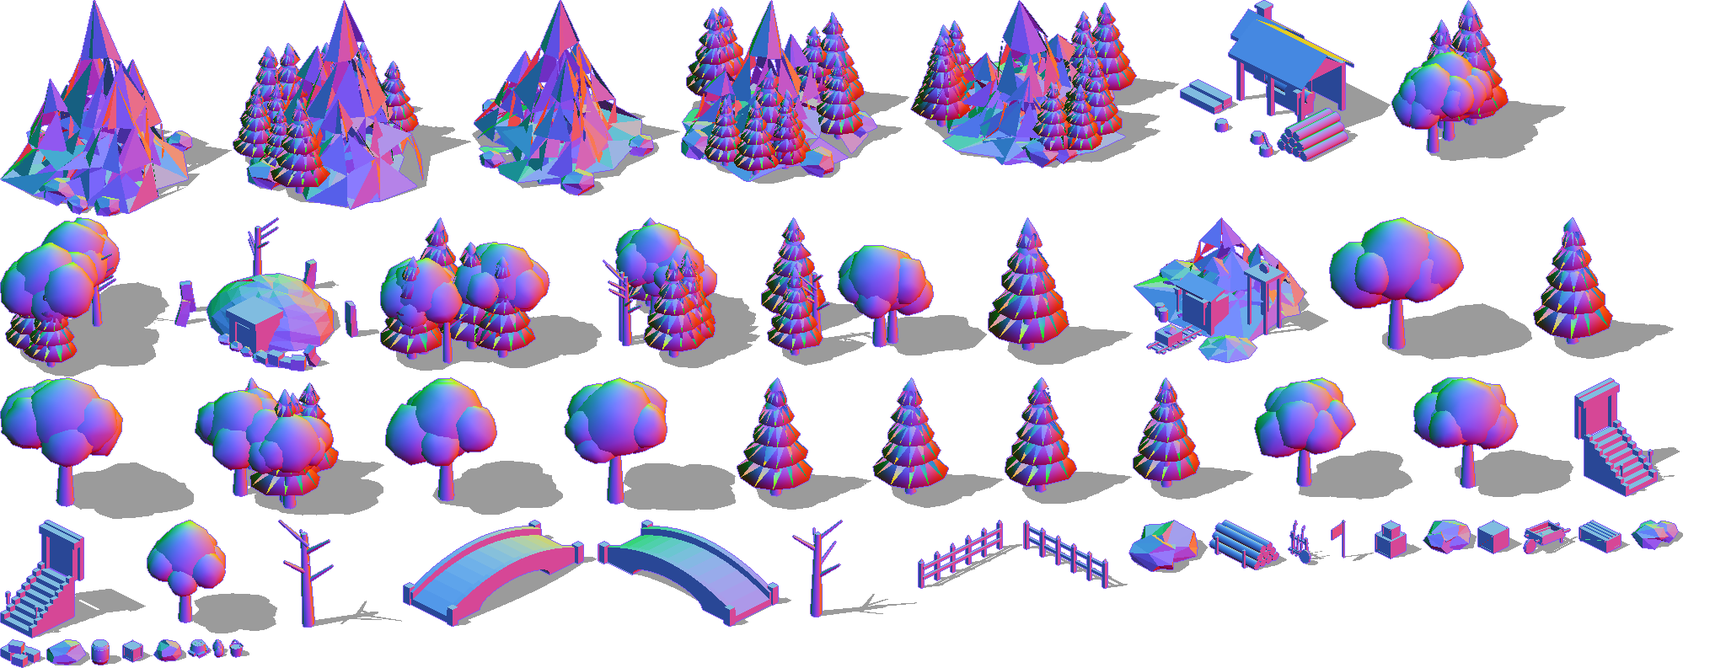
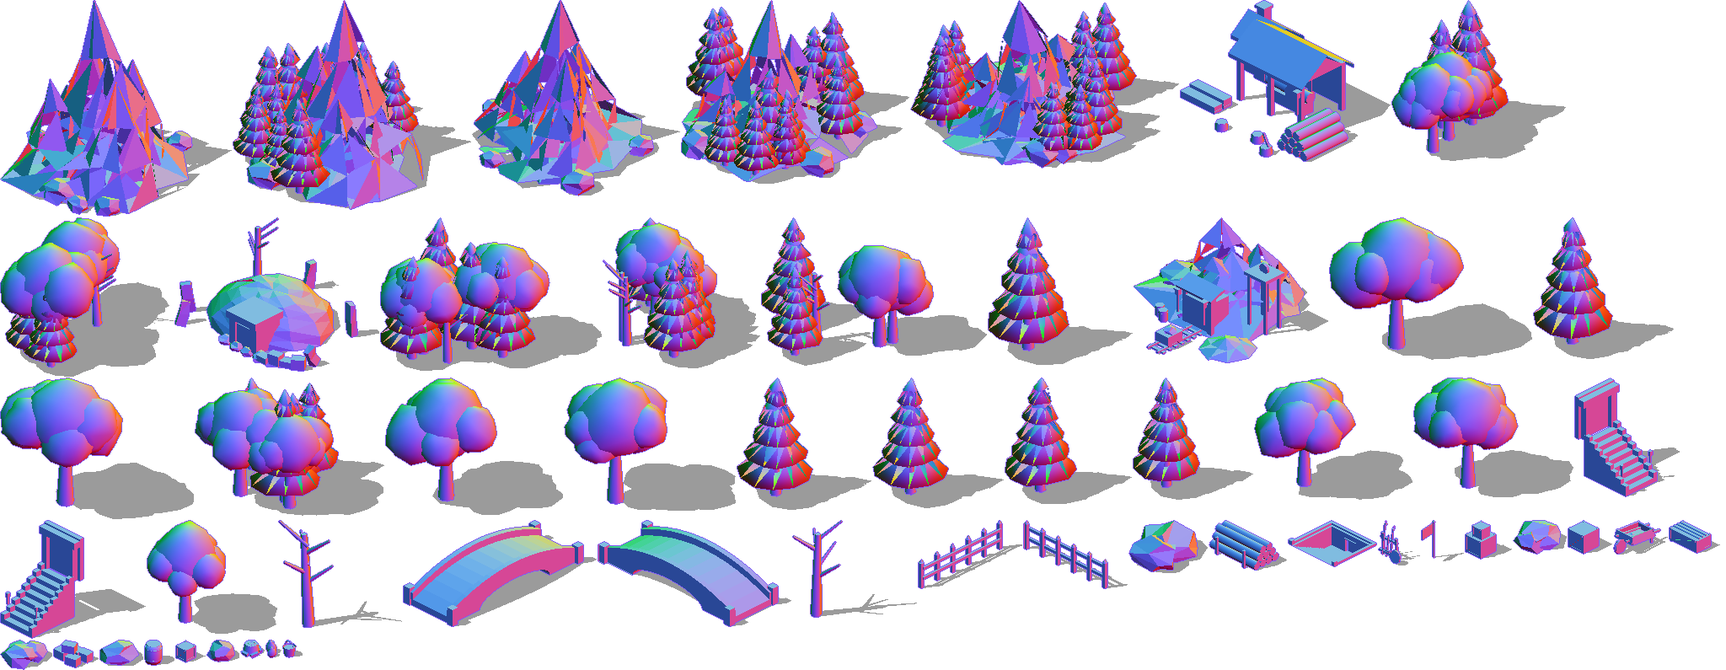
Stairs down: a stone stairwell in the descent room, not a marker on one tile
Every floor's way down was a small violet portal voxel (26x31 px) on the
descent room's middle tile; the minimap icon was the easier thing to
find. Now it is a stairwell 6 tiles by 6 cut into the floor: a flight
going down (each tread darker) to a landing and an arch lit violet, a
kerb on three sides, a brazier either side of the top step. Before and
after, same seeds and camera: docs/stairs-down-before-after.png.

Sim (world.js): the stairwell's 36 tiles are props, so nothing walks
over the hole; 'stairs' is its top step (world.stairsAt), the rest
'stairwell', and any of them takes you down from the rim. It sits as
near the room's middle as fits (an L-shaped room's middle can be its
notch), with a clear, pool-free row in front; placed on 48/48 floors
(12 seeds x 4 floors), else the old single tile. The compass's stairs
row paths to the nearest rim tile, and a tap in the middle walks to the
top step: reachable from the arrival on 48/48 (a hazard across the
front had cut off 9 before the rim rule). The 7 difficulty gates print
the same numbers as before.

Bake (envlab.js, buildkit.js): `below` keeps geometry under the ground;
a depth-only floor around the opening (userData.mask) hides what the
ground would, so the bake sees in only through the mouth. `glowId`
gives a sprite's glow its colour (violet, 2). It's shallow on purpose:
the 30 degree camera sees ~1.2x a stairwell's depth in from its mouth.
Rebaked env atlases: the other 53 sprites are pixel-identical, the town
[…]

diff --git a/src/sim/envfoot.js b/src/sim/envfoot.js
@@ -1,4 +1,4 @@
 // envfoot.js — GENERATED by tools/actor-lab/bake-env.cjs. Do not edit.
 // Ground footprint of each baked environment sprite, in tiles relative to its
 // origin: [x0, y0, x1, y1]. Used for collision and placement.
-export const ENV_FOOT = {"pine_1":[-4.13,-4.18,4.39,4.34],"pine_2":[-4.81,-4.8,5.12,5],"pine_3":[-4.98,-5.01,5,4.96],"pine_4":[-5.13,-5.38,5.48,5.19],"pine_5":[-4.8,-4.87,4.86,4.58],"pine_6":[-4.76,-4.68,4.81,4.84],"oak_1":[-6.76,-5.9,5.88,5.84],"oak_2":[-5.8,-4.63,4.64,4.88],"oak_3":[-5.69,-5.27,5.8,5.97],"oak_4":[-6.23,-6.82,5.95,6.39],"autumn_1":[-6.59,-6.17,5.5,4.97],"autumn_2":[-4.61,-5.31,5.15,5.55],"autumn_3":[-4.46,-4.55,4.68,4.38],"dead_1":[-2.24,-2.81,2.66,2.62],"dead_2":[-2.56,-1.87,2.98,3.05],"grove_1":[-7.68,-11.37,3.67,5.35],"grove_2":[-9.37,-7.23,8.7,9.95],"grove_3":[-8,-5.74,9.25,8.11],"grove_4":[-8.72,-9.33,7.98,8.18],"grove_5":[-7.14,-9.42,6.44,8.99],"grove_6":[-8.02,-9.64,7.46,6.95],"bridge_0":[-3.6,-9.7,3.6,9.7],"bridge_90":[-9.7,-3.6,9.7,3.6],"rock_A":[-2.18,-2.03,2.19,2.41],"rock_B":[-2.03,-2.12,2.06,1.97],"rock_C":[-3.06,-3.35,3.32,3.55],"rock_D":[-2.7,-3.56,2.22,2.22],"rock_E":[-3.72,-3.84,4.19,6.22],"mountain_A_grass_trees":[-12.58,-12.79,11.34,10.47],"mountain_B_grass_trees":[-12.7,-13.02,12.8,11.86],"mountain_C_grass_trees":[-14.56,-13.66,14.26,14.25],"mountain_A":[-11.3,-11.74,11.05,10.38],"mountain_B":[-12.23,-11.71,11.72,13.45],"ruin":[-9.37,-9.66,9.14,6.89],"mine_0":[-11.55,-10.95,8.49,11.1],"lumbermill_90":[-10.3,-7.1,9.4,8.9],"barrel":[-0.89,-0.94,0.89,0.94],"crate_A_big":[-1.12,-1.12,1.12,1.19],"crate_A_small":[-0.72,-0.72,0.72,0.79],"crate_B_big":[-1.12,-1.12,1.12,1.19],"crate_long_A":[-2.02,-1.02,2.02,1.09],"sack":[-0.62,-0.49,1.25,1.36],"wheelbarrow":[-1.32,-2.69,1.32,3.23],"weaponrack":[-1.2,-0.19,2.1,0.81],"bucket_water":[-0.65,-0.65,0.65,0.65],"resource_lumber":[-3.33,-1.78,3.33,2.15],"resource_stone":[-1.7,-1.97,1.75,0.83],"flag_red":[-0.16,-0.12,0.16,1.84],"stump":[-1.06,-1.15,1.12,1.1],"fence_0":[-0.25,-6.05,0.3,6.05],"fence_90":[-6.05,-0.3,6.05,0.25],"stairsup_0":[-2.6,-4.15,2.6,3.1],"stairsup_90":[-4.15,-2.6,3.1,2.6],"vale_tavern_1":[-6.3,-8.45,6.72,7.25],"vale_inn_1":[-7.1,-4.4,10.48,5.1],"vale_shop_1":[-4.2,-5.72,5.07,4.2],"vale_temple_1":[-6.95,-4.5,7.84,6.7],"vale_well_1":[-2.1,-1.8,2.1,1.8],"vale_house_1":[-4.7,-4,4.7,4],"vale_house_2":[-4.7,-4,4.7,4],"vale_house_3":[-4.7,-4,4.7,4],"vale_housex_1":[-4,-4.7,4,4.7],"vale_housex_2":[-4,-4.7,4,4.7],"vale_farm_1":[-9.63,-5.7,9.77,7.63],"vale_farmx_1":[-5.7,-9.77,7.63,9.63],"vale_keep_1":[-6.37,-6.45,6.37,6.45],"vale_wall_1":[-11,-1.7,11,2.1],"vale_wally_1":[-1.7,-11,2.1,11],"vale_smith_1":[-5.2,-4.3,5.36,4.8],"fens_tavern_1":[-6.3,-8.45,6.72,7.25],"fens_inn_1":[-7.1,-4.4,10.48,5.1],"fens_shop_1":[-4.2,-5.72,5.07,4.2],"fens_temple_1":[-6.95,-4.5,7.84,6.7],"fens_well_1":[-2.1,-1.8,2.1,1.8],"fens_house_1":[-4.7,-4,4.7,4],"fens_house_2":[-4.7,-4,4.7,4],"fens_house_3":[-4.7,-4,4.7,4],"fens_housex_1":[-4,-4.7,4,4.7],"fens_housex_2":[-4,-4.7,4,4.7],"fens_farm_1":[-9.63,-5.7,9.77,7.63],"fens_farmx_1":[-5.7,-9.77,7.63,9.63],"fens_keep_1":[-6.37,-6.45,6.37,6.45],"fens_wall_1":[-11,-1.7,11,2.1],"fens_wally_1":[-1.7,-11,2.1,11],"fens_smith_1":[-5.2,-4.3,5.36,4.8],"reach_tavern_1":[-6.3,-8.45,6.72,7.25],"reach_inn_1":[-7.1,-4.4,10.48,5.1],"reach_shop_1":[-4.2,-5.72,5.07,4.2],"reach_temple_1":[-6.95,-4.5,7.84,6.7],"reach_well_1":[-2.1,-1.8,2.1,1.8],"reach_house_1":[-4.7,-4,4.7,4],"reach_house_2":[-4.7,-4,4.7,4],"reach_house_3":[-4.7,-4,4.7,4],"reach_housex_1":[-4,-4.7,4,4.7],"reach_housex_2":[-4,-4.7,4,4.7],"reach_farm_1":[-9.63,-5.7,9.77,7.63],"reach_farmx_1":[-5.7,-9.77,7.63,9.63],"reach_keep_1":[-6.37,-6.45,6.37,6.45],"reach_wall_1":[-11,-1.7,11,2.1],"reach_wally_1":[-1.7,-11,2.1,11],"reach_smith_1":[-5.2,-4.3,5.36,4.8],"heights_tavern_1":[-6.3,-8.45,6.72,7.25],"heights_inn_1":[-7.1,-4.4,10.48,5.1],"heights_shop_1":[-4.2,-5.72,5.07,4.2],"heights_temple_1":[-6.95,-4.5,7.84,6.7],"heights_well_1":[-2.1,-1.8,2.1,1.8],"heights_house_1":[-4.7,-4,4.7,4],"heights_house_2":[-4.7,-4,4.7,4],"heights_house_3":[-4.7,-4,4.7,4],"heights_housex_1":[-4,-4.7,4,4.7],"heights_housex_2":[-4,-4.7,4,4.7],"heights_farm_1":[-9.63,-5.7,9.77,7.63],"heights_farmx_1":[-5.7,-9.77,7.63,9.63],"heights_keep_1":[-6.37,-6.45,6.37,6.45],"heights_wall_1":[-11,-1.7,11,2.1],"heights_wally_1":[-1.7,-11,2.1,11],"heights_smith_1":[-5.2,-4.3,5.36,4.8]};
+export const ENV_FOOT = {"pine_1":[-4.13,-4.18,4.39,4.34],"pine_2":[-4.81,-4.8,5.12,5],"pine_3":[-4.98,-5.01,5,4.96],"pine_4":[-5.13,-5.38,5.48,5.19],"pine_5":[-4.8,-4.87,4.86,4.58],"pine_6":[-4.76,-4.68,4.81,4.84],"oak_1":[-6.76,-5.9,5.88,5.84],"oak_2":[-5.8,-4.63,4.64,4.88],"oak_3":[-5.69,-5.27,5.8,5.97],"oak_4":[-6.23,-6.82,5.95,6.39],"autumn_1":[-6.59,-6.17,5.5,4.97],"autumn_2":[-4.61,-5.31,5.15,5.55],"autumn_3":[-4.46,-4.55,4.68,4.38],"dead_1":[-2.24,-2.81,2.66,2.62],"dead_2":[-2.56,-1.87,2.98,3.05],"grove_1":[-7.68,-11.37,3.67,5.35],"grove_2":[-9.37,-7.23,8.7,9.95],"grove_3":[-8,-5.74,9.25,8.11],"grove_4":[-8.72,-9.33,7.98,8.18],"grove_5":[-7.14,-9.42,6.44,8.99],"grove_6":[-8.02,-9.64,7.46,6.95],"bridge_0":[-3.6,-9.7,3.6,9.7],"bridge_90":[-9.7,-3.6,9.7,3.6],"rock_A":[-2.18,-2.03,2.19,2.41],"rock_B":[-2.03,-2.12,2.06,1.97],"rock_C":[-3.06,-3.35,3.32,3.55],"rock_D":[-2.7,-3.56,2.22,2.22],"rock_E":[-3.72,-3.84,4.19,6.22],"mountain_A_grass_trees":[-12.58,-12.79,11.34,10.47],"mountain_B_grass_trees":[-12.7,-13.02,12.8,11.86],"mountain_C_grass_trees":[-14.56,-13.66,14.26,14.25],"mountain_A":[-11.3,-11.74,11.05,10.38],"mountain_B":[-12.23,-11.71,11.72,13.45],"ruin":[-9.37,-9.66,9.14,6.89],"mine_0":[-11.55,-10.95,8.49,11.1],"lumbermill_90":[-10.3,-7.1,9.4,8.9],"barrel":[-0.89,-0.94,0.89,0.94],"crate_A_big":[-1.12,-1.12,1.12,1.19],"crate_A_small":[-0.72,-0.72,0.72,0.79],"crate_B_big":[-1.12,-1.12,1.12,1.19],"crate_long_A":[-2.02,-1.02,2.02,1.09],"sack":[-0.62,-0.49,1.25,1.36],"wheelbarrow":[-1.32,-2.69,1.32,3.23],"weaponrack":[-1.2,-0.19,2.1,0.81],"bucket_water":[-0.65,-0.65,0.65,0.65],"resource_lumber":[-3.33,-1.78,3.33,2.15],"resource_stone":[-1.7,-1.97,1.75,0.83],"flag_red":[-0.16,-0.12,0.16,1.84],"stump":[-1.06,-1.15,1.12,1.1],"fence_0":[-0.25,-6.05,0.3,6.05],"fence_90":[-6.05,-0.3,6.05,0.25],"stairsup_0":[-2.6,-4.15,2.6,3.1],"stairsup_90":[-4.15,-2.6,3.1,2.6],"stairsdown_0":[-3.38,-3.8,3.38,3.01],"vale_tavern_1":[-6.3,-8.45,6.72,7.25],"vale_inn_1":[-7.1,-4.4,10.48,5.1],"vale_shop_1":[-4.2,-5.72,5.07,4.2],"vale_temple_1":[-6.95,-4.5,7.84,6.7],"vale_well_1":[-2.1,-1.8,2.1,1.8],"vale_house_1":[-4.7,-4,4.7,4],"vale_house_2":[-4.7,-4,4.7,4],"vale_house_3":[-4.7,-4,4.7,4],"vale_housex_1":[-4,-4.7,4,4.7],"vale_housex_2":[-4,-4.7,4,4.7],"vale_farm_1":[-9.63,-5.7,9.77,7.63],"vale_farmx_1":[-5.7,-9.77,7.63,9.63],"vale_keep_1":[-6.37,-6.45,6.37,6.45],"vale_wall_1":[-11,-1.7,11,2.1],"vale_wally_1":[-1.7,-11,2.1,11],"vale_smith_1":[-5.2,-4.3,5.36,4.8],"fens_tavern_1":[-6.3,-8.45,6.72,7.25],"fens_inn_1":[-7.1,-4.4,10.48,5.1],"fens_shop_1":[-4.2,-5.72,5.07,4.2],"fens_temple_1":[-6.95,-4.5,7.84,6.7],"fens_well_1":[-2.1,-1.8,2.1,1.8],"fens_house_1":[-4.7,-4,4.7,4],"fens_house_2":[-4.7,-4,4.7,4],"fens_house_3":[-4.7,-4,4.7,4],"fens_housex_1":[-4,-4.7,4,4.7],"fens_housex_2":[-4,-4.7,4,4.7],"fens_farm_1":[-9.63,-5.7,9.77,7.63],"fens_farmx_1":[-5.7,-9.77,7.63,9.63],"fens_keep_1":[-6.37,-6.45,6.37,6.45],"fens_wall_1":[-11,-1.7,11,2.1],"fens_wally_1":[-1.7,-11,2.1,11],"fens_smith_1":[-5.2,-4.3,5.36,4.8],"reach_tavern_1":[-6.3,-8.45,6.72,7.25],"reach_inn_1":[-7.1,-4.4,10.48,5.1],"reach_shop_1":[-4.2,-5.72,5.07,4.2],"reach_temple_1":[-6.95,-4.5,7.84,6.7],"reach_well_1":[-2.1,-1.8,2.1,1.8],"reach_house_1":[-4.7,-4,4.7,4],"reach_house_2":[-4.7,-4,4.7,4],"reach_house_3":[-4.7,-4,4.7,4],"reach_housex_1":[-4,-4.7,4,4.7],"reach_housex_2":[-4,-4.7,4,4.7],"reach_farm_1":[-9.63,-5.7,9.77,7.63],"reach_farmx_1":[-5.7,-9.77,7.63,9.63],"reach_keep_1":[-6.37,-6.45,6.37,6.45],"reach_wall_1":[-11,-1.7,11,2.1],"reach_wally_1":[-1.7,-11,2.1,11],"reach_smith_1":[-5.2,-4.3,5.36,4.8],"heights_tavern_1":[-6.3,-8.45,6.72,7.25],"heights_inn_1":[-7.1,-4.4,10.48,5.1],"heights_shop_1":[-4.2,-5.72,5.07,4.2],"heights_temple_1":[-6.95,-4.5,7.84,6.7],"heights_well_1":[-2.1,-1.8,2.1,1.8],"heights_house_1":[-4.7,-4,4.7,4],"heights_house_2":[-4.7,-4,4.7,4],"heights_house_3":[-4.7,-4,4.7,4],"heights_housex_1":[-4,-4.7,4,4.7],"heights_housex_2":[-4,-4.7,4,4.7],"heights_farm_1":[-9.63,-5.7,9.77,7.63],"heights_farmx_1":[-5.7,-9.77,7.63,9.63],"heights_keep_1":[-6.37,-6.45,6.37,6.45],"heights_wall_1":[-11,-1.7,11,2.1],"heights_wally_1":[-1.7,-11,2.1,11],"heights_smith_1":[-5.2,-4.3,5.36,4.8]};

diff --git a/tools/actor-lab/envlab.js b/tools/actor-lab/envlab.js
@@ -24,9 +24,12 @@ window.measure = async (names) => {
 // DEPTH KEY = distance toward the camera in tile units: ground x+y plus 0.816 × height
 // (the 30° camera: a point one tile-unit higher sits 0.816 tiles nearer). The renderer
 // composes structures and actors with a "nearer wins" test on this key.
+// (uFloor: the lowest height baked, in model units — just under the ground, or a stairwell's
+// bottom for a bake with o.below)
 const keyMat = new THREE.ShaderMaterial({
+  uniforms: { uFloor: { value: -0.02 } },
   vertexShader: `varying vec3 vW; void main(){ vec4 w = modelMatrix * vec4(position,1.0); vW = w.xyz; gl_Position = projectionMatrix * viewMatrix * w; }`,
-  fragmentShader: `varying vec3 vW; void main(){ if (vW.y < -0.02) discard; float k = (vW.x + vW.z + 0.816 * vW.y) * ${UNIT_TILES.toFixed(1)} + 128.0;
+  fragmentShader: `uniform float uFloor; varying vec3 vW; void main(){ if (vW.y < uFloor) discard; float k = (vW.x + vW.z + 0.816 * vW.y) * ${UNIT_TILES.toFixed(1)} + 128.0;
     gl_FragColor = vec4(floor(k) / 255.0, fract(k), 0.0, 1.0); }`,
 });
 // planar shadow: every vertex slid along the sun direction onto the ground plane
@@ -36,15 +39,16 @@ const shadowMat = new THREE.ShaderMaterial({
   vertexShader: `uniform vec3 uSun; void main(){ vec4 w = modelMatrix * vec4(position,1.0); w.y = max(w.y, 0.0); w.xyz -= uSun * (w.y / uSun.y); w.y = 0.001; gl_Position = projectionMatrix * viewMatrix * w; }`,
   fragmentShader: `void main(){ gl_FragColor = vec4(1.0); }`,
 });
-const CLIP = [new THREE.Plane(new THREE.Vector3(0, 1, 0), 0.02)];   // nothing below the ground plane
+const CLIP = [new THREE.Plane(new THREE.Vector3(0, 1, 0), 0.02)];   // nothing below the ground plane (but o.below: a stairwell's depth)
 R.localClippingEnabled = true;
 const nrmMat = new THREE.MeshNormalMaterial({ clippingPlanes: CLIP, side: THREE.DoubleSide });
 keyMat.side = THREE.DoubleSide; shadowMat.side = THREE.DoubleSide;
 const glowOn = new THREE.MeshBasicMaterial({ color: 0xffffff, side: THREE.DoubleSide, clippingPlanes: CLIP }), glowOff = new THREE.MeshBasicMaterial({ color: 0x000000, side: THREE.DoubleSide, clippingPlanes: CLIP });
 // atlas swatch id (8 × 4 gradient swatches): R = column/8, G = row/4 — used to find windows
 const uvMat = new THREE.ShaderMaterial({
+  uniforms: { uFloor: keyMat.uniforms.uFloor },
   vertexShader: `varying vec2 vUv; varying float vY; void main(){ vUv = uv; vY = (modelMatrix * vec4(position,1.0)).y; gl_Position = projectionMatrix * modelViewMatrix * vec4(position,1.0); }`,
-  fragmentShader: `varying vec2 vUv; varying float vY; void main(){ if (vY < -0.02) discard; vec2 u = fract(vUv); gl_FragColor = vec4((floor(u.x * 8.0) + 0.5) / 8.0, (floor(u.y * 4.0) + 0.5) / 4.0, fract(u.y * 4.0), 1.0); }`,
+  fragmentShader: `uniform float uFloor; varying vec2 vUv; varying float vY; void main(){ if (vY < uFloor) discard; vec2 u = fract(vUv); gl_FragColor = vec4((floor(u.x * 8.0) + 0.5) / 8.0, (floor(u.y * 4.0) + 0.5) / 4.0, fract(u.y * 4.0), 1.0); }`,
 });
 
 // bake one model → { w, h, ax, ay, alb, nrm, key (dataURLs), emi, foot } ; ax/ay = pixel of the model origin
@@ -53,14 +57,19 @@ window.bakeEnv = async (name, o = {}) => {
   if (o.rotY) root.rotation.y = o.rotY * Math.PI / 180;
   if (o.scale) root.scale.setScalar(o.scale);
   root.updateMatrixWorld(true);
-  const box = new THREE.Box3().setFromObject(root);
+  // o.below (model units): keep geometry down to that depth under the ground — a stairwell. Its
+  // keys come out further than the ground's (they are); the renderer lets such a sprite through
+  // the floor only inside its opening (renderer.js, `hole`).
+  const below = o.below || 0; CLIP[0].constant = 0.02 + below; keyMat.uniforms.uFloor.value = -0.02 - below;
+  // (a `mask` mesh — a stairwell's floor — writes depth only: it hides, and is never drawn or framed)
+  const box = new THREE.Box3(); root.traverse((m) => { if (m.isMesh && !m.userData.mask) box.expandByObject(m); });
   // frame: project the 8 bbox corners with the game camera to size the canvas
   const pr = THREE.MathUtils.degToRad(30), yw = THREE.MathUtils.degToRad(45);
   const cam = new THREE.OrthographicCamera(-1, 1, 1, -1, 0.1, 200);
   cam.position.set(50 * Math.cos(pr) * Math.sin(yw), 50 * Math.sin(pr), 50 * Math.cos(pr) * Math.cos(yw)); cam.lookAt(0, 0, 0); cam.updateMatrixWorld(true);
   const right = new THREE.Vector3(1, 0, 0).applyQuaternion(cam.quaternion), up = new THREE.Vector3(0, 1, 0).applyQuaternion(cam.quaternion);
   let x0 = 1e9, x1 = -1e9, y0 = 1e9, y1 = -1e9;
-  const minY = Math.max(0, box.min.y);
+  const minY = Math.max(-below, box.min.y);
   for (const X of [box.min.x, box.max.x]) for (const Y of [minY, box.max.y]) for (const Z of [box.min.z, box.max.z]) {
     const vs = [new THREE.Vector3(X, Y, Z)];
     if (o.shadow !== false) vs.push(new THREE.Vector3(X, 0, Z).addScaledVector(SUN, -Y / SUN.y));
@@ -72,7 +81,8 @@ window.bakeEnv = async (name, o = {}) => {
   R.setSize(W, H);
   const scene = new THREE.Scene(); scene.add(root);
   const albMats = new Map();
-  root.traverse((m) => { if (m.isMesh) albMats.set(m, new THREE.MeshBasicMaterial({ map: m.material.map, color: m.material.color, vertexColors: !!m.geometry.attributes.color, clippingPlanes: CLIP, side: THREE.DoubleSide })); });
+  const maskMat = new THREE.MeshBasicMaterial({ colorWrite: false, side: THREE.DoubleSide });
+  root.traverse((m) => { if (m.isMesh && m.userData.mask) albMats.set(m, maskMat); else if (m.isMesh) albMats.set(m, new THREE.MeshBasicMaterial({ map: m.material.map, color: m.material.color, vertexColors: !!m.geometry.attributes.color, clippingPlanes: CLIP, side: THREE.DoubleSide })); });
   const tmp = document.createElement('canvas'); tmp.width = W; tmp.height = H; const tx = tmp.getContext('2d', { willReadFrequently: true });
   const pass = (kind) => {
     if (kind === 'alb') { scene.overrideMaterial = null; root.traverse((m) => { if (m.isMesh) m.material = albMats.get(m); }); R.outputColorSpace = THREE.SRGBColorSpace; }
@@ -143,7 +153,7 @@ window.bakeAll = async (list, width = 2048) => {
   const meta = {};
   items.forEach(({ e, r }, i) => { const [px, py] = pos[i];
     xa.putImageData(r.A, px, py); xn.putImageData(r.N, px, py); xk.putImageData(r.K, px, py);
-    meta[e.id] = { x: px, y: py, w: r.w, h: r.h, ax: r.ax, ay: r.ay, foot: r.foot, top: r.top, glow: r.emi ? 9 : 0 }; });
+    meta[e.id] = { x: px, y: py, w: r.w, h: r.h, ax: r.ax, ay: r.ay, foot: r.foot, top: r.top, glow: r.emi ? (e.glowId || 9) : 0 }; });   // glow: its GLOW_ID (9 lit windows; 2 violet)
   return { meta, width, height: H, alb: ca.toDataURL('image/png'), nrm: cn.toDataURL('image/png'), key: ck.toDataURL('image/png') };
 };
 window.ready = true;

diff --git a/src/render/renderer.js b/src/render/renderer.js
@@ -26,7 +26,7 @@ import { statsFor } from '../sim/party.js';
 
 // hazard material → the point-light color it casts (lit dynamically as a flare)
 const HAZARD_LIGHT = { lava: [1.7, 0.8, 0.25], ember: [1.7, 0.85, 0.3], poison: [0.5, 1.5, 0.35], chasm: [0.7, 0.55, 1.7] };
-const INTERACT = new Set(['chest', 'shrine', 'stairs']);   // props a tap can target
+const INTERACT = new Set(['chest', 'shrine', 'stairs', 'stairwell']);   // props a tap can target
 // Actor atlases (tools/actor-lab/bake.cjs) store one row per screen octant:
 // 0=E, 1=SE, 2=S (toward the camera), 3=SW, 4=W, 5=NW, 6=N, 7=NE. sdx/sdy are
 // screen-space deltas.
@@ -305,7 +305,7 @@ export function createRenderer(canvas, sim, input) {
         sp.alb[j * 3] = A[i]; sp.alb[j * 3 + 1] = A[i + 1]; sp.alb[j * 3 + 2] = A[i + 2];
         sp.nrm[j * 3] = N[i]; sp.nrm[j * 3 + 1] = N[i + 1]; sp.nrm[j * 3 + 2] = N[i + 2];
         sp.dep[j] = K[i] + K[i + 1] / 255 - 128;
-        sp.emi[j] = K[i + 2] > 128 ? 9 : 0;
+        sp.emi[j] = K[i + 2] > 128 ? m.glow || 9 : 0;   // its GLOW_ID: lit windows, or the stairwell's violet
       } else if (N[i + 3] > 40) sp.mask[j] = 2;              // ground shadow only
     }
     envCache.set(id, sp);
@@ -322,8 +322,9 @@ export function createRenderer(canvas, sim, input) {
       const z = heightAt(world, Math.floor(st.x), Math.floor(st.y));
       const P = project(st.x, st.y, z), x0 = Math.round(bx + P.sx) - sp.ax, y0 = Math.round(by + P.sy) - sp.ay;
       if (x0 > tbw || y0 > tbh || x0 + sp.w < 0 || y0 + sp.h < 0) continue;
-      list.push({ sp, x0, y0, z, base: st.x + st.y + z * 0.5, walkOn: st.id.startsWith('bridge') || st.id.startsWith('stairsup') });
-      if (envMeta.sprites[st.id].glow && lights.length < 30) lights.push({ x: st.x, y: st.y, z: z + 3, color: [1.1, 0.72, 0.36] });
+      list.push({ sp, x0, y0, z, base: st.x + st.y + z * 0.5, walkOn: st.id.startsWith('bridge') || st.id.startsWith('stairsup'), hole: !!st.hole });
+      const gl = envMeta.sprites[st.id].glow;
+      if (gl && lights.length < 30) lights.push(gl === 2 ? { x: st.x, y: st.y - 2.5, z: z - 1, color: PROP_LIGHT.stairs } : { x: st.x, y: st.y, z: z + 3, color: [1.1, 0.72, 0.36] });
     }
     return list;
   }
@@ -341,15 +342,19 @@ export function createRenderer(canvas, sim, input) {
       }
     }
   }
-  function stampSprite({ sp, x0, y0, base, walkOn, z }, by) {
+  // A `hole` (the stairwell) is below the floor, so its keys are further than the floor's: it
+  // replaces floor pixels (the bake shows it through its mouth only) and gives way to anything
+  // standing nearer than the floor there (a pillar, a wall), the same test as a ground shadow.
+  function stampSprite({ sp, x0, y0, base, walkOn, hole, z }, by) {
     const zp = z * ZH;
     for (let yy = 0; yy < sp.h; yy++) {
       const py = y0 + yy; if (py < 0 || py >= tbh) continue;
+      const ground = (py - by + zp) / HH + z * 0.5 + 0.35;
       for (let xx = 0; xx < sp.w; xx++) {
         const j = yy * sp.w + xx; if (sp.mask[j] !== 1) continue;
         const px = x0 + xx; if (px < 0 || px >= tbw) continue;
         const di = py * tbw + px, dep = base + sp.dep[j];
-        if (dep < bDEP[di] - 0.05) continue;
+        if (hole ? bDEP[di] > ground + 0.1 : dep < bDEP[di] - 0.05) continue;
         if (!walkOn) bDEP[di] = dep;
         const i = di * 4, hpx = Math.max(0, Math.min(63, (4 * (dep - z * 0.5) - (py - by + zp)) / 1.333));
         bALB[i] = sp.alb[j * 3]; bALB[i + 1] = sp.alb[j * 3 + 1]; bALB[i + 2] = sp.alb[j * 3 + 2]; bALB[i + 3] = 255;
@@ -651,7 +656,7 @@ export function createRenderer(canvas, sim, input) {
       const z = heightAt(world, tx, ty);
       // static props / resources composite into the bake (depth order via the sort)
       const pk = propAt(world, tx, ty);
-      if (pk) {
+      if (pk && pk !== 'stairwell' && !(pk === 'stairs' && world.stairwell)) {   // (a stairwell's tiles: drawn by its structure, stairsdown_0, light and all)
         const arr = props[pk] || props.spire, sp = arr.length === 1 ? arr[0] : arr[(hash2(tx, ty, 5) * arr.length) | 0];
         stamp(bALB, bNRM, bEMI, tbw, tbh, sp, bx + (tx - ty) * HW, by + (tx + ty) * HH - z * ZH + HH, z * ZH, bDEP, tx + ty + 1);
         if (PROP_LIGHT[pk]) j.lights.push({ x: tx, y: ty, z, color: PROP_LIGHT[pk] });   // braziers / gate / shrine glow

diff --git a/tools/actor-lab/buildkit.js b/tools/actor-lab/buildkit.js
@@ -767,6 +767,49 @@ Object.assign(TYPES, {
       box(0.015, 0.1, 0.015, S.m.trim, sx * (W / 2 + 0.03), rise * 0.35 + 0.05, L / 2 - 0.08, g);
     }
   },
+  // A floor's way down (the dungeon's stairs down): a stairwell cut into the floor, 6 tiles by 6.
+  // The flight starts at the opening's front edge (+z, toward the camera) and goes down away from
+  // you to a landing at the back, where an arch leads on under the floor, lit violet (the way
+  // down). A low kerb rims the other three sides. Shallow on purpose: the 30° camera sees about
+  // 1.2× a stairwell's depth in from its mouth, so a deep one showed nothing but its near wall.
+  // Everything but the kerb is below the ground: bake with `below` (envlab.js). Origin: the
+  // opening's middle, at ground level.
+  stairsdown(S, g) {
+    const HX = 0.3, HZ = 0.3, D = 0.22, T = 0.026, N = 12, run = 0.44;
+    const wall = mat(tex('ashlar', '#3a3642', 37)), dark = mat(null, '#0a080e'), lip = mat(null, '#9a94a2'), kerb = mat(tex('ashlar', '#58525e', 33));
+    const wy = -D - 0.03, wh = D + 0.03;                                        // walls from under the landing up to the ground
+    const deep = mat(tex('ashlar', '#26232c', 38));                              // the walls darken toward the bottom
+    for (const sx of [-1, 1]) { box(T, wh * 0.55, 2 * HZ, deep, sx * (HX - T / 2), wy, 0, g); box(T, wh * 0.45, 2 * HZ, wall, sx * (HX - T / 2), wy + wh * 0.55, 0, g); }   // side walls, inside the opening
+    // back wall with the arch: two jambs and a lintel, and the dark way on behind
+    const aw = 0.15, ah = 0.15;
+    for (const sx of [-1, 1]) box(HX - aw / 2, wh, T, wall, sx * (aw / 2 + (HX - aw / 2) / 2), wy, -HZ + T / 2, g);
+    box(aw, wh - ah - 0.03, T, wall, 0, -D + ah, -HZ + T / 2, g);
+    box(aw + 0.03, 0.014, T + 0.008, lip, 0, -D + ah, -HZ + T / 2 + 0.004, g);   // the arch's lintel stone, lit edge
+    box(aw, ah, 0.06, dark, 0, -D, -HZ - 0.05, g);                               // the passage on
+    const glow = new THREE.Mesh(new THREE.BoxGeometry(aw - 0.024, ah - 0.02, 0.006), S.m.glass); glow.userData.glow = true;
+    glow.position.set(0, -D + (ah - 0.02) / 2, -HZ - 0.012); g.add(glow);          // (violet in the game: env.json glowId)
+    // the flight: N steps from just under the front edge down to the landing
+    const w = 2 * (HX - T), d = run / N;
+    const shade = (f) => { const c = new THREE.Color('#7c7686').lerp(new THREE.Color('#34303c'), f); return mat(tex('ashlar', '#' + c.getHexString(), 31)); };
+    for (let i = 0; i < N; i++) {                                                // each tread a little darker going down
+      const top = -D * (i + 1) / (N + 1), z = HZ - (i + 0.5) * d;
+      box(w, top - wy, d, shade(i / N), 0, wy, z, g);
+      box(w, 0.006, 0.012, lip, 0, top - 0.003, z + d / 2 - 0.006, g);           // worn nosing, lit edge
+    }
+    box(w, -D - wy, 2 * HZ - run, shade(1), 0, wy, -HZ + (2 * HZ - run) / 2, g);  // the landing
+    // the kerb: a low stone rim on the sides and back (the front is where you step down)
+    const kh = 0.024, kt = 0.03;
+    for (const sx of [-1, 1]) box(kt, kh, 2 * HZ + kt, kerb, sx * (HX + kt / 2), 0, -kt / 2, g);
+    box(2 * HX + 2 * kt, kh, kt, kerb, 0, 0, -HZ - kt / 2, g);
+    for (const sx of [-1, 1]) box(0.045, 0.05, 0.045, kerb, sx * (HX + kt / 2), 0, HZ - 0.022, g);   // newel stones at the top step
+    // the floor around the opening, depth only (envlab.js `mask`): it hides what the ground would —
+    // the walls' and steps' outsides — so the bake sees into the stairwell only through its mouth.
+    // Wide on the camera's sides (+x, +z): a view ray from the landing surfaces ~0.3 further on.
+    const E = 0.34, e = 0.04, slab = (sw, sd, x, z) => { box(sw, 0.002, sd, dark, x, -0.002, z, g).userData.mask = true; };
+    slab(E + e + 2 * HX, E, (E - e) / 2, HZ + E / 2);                              // in front
+    slab(e, 2 * HZ + e, -HX - e / 2, -e / 2); slab(E, 2 * HZ + e, HX + E / 2, -e / 2);   // the sides
+    slab(E + e + 2 * HX, e, (E - e) / 2, -HZ - e / 2);                             // behind
+  },
 });
 
 export const BUILD_TYPES = Object.keys(TYPES);

diff --git a/src/sim/world.js b/src/sim/world.js
@@ -107,12 +107,12 @@ export function createWorld(seed, theme, depth = 0) {
     if (prng() < 0.55) { const q = pickEdge(8); if (q) place(q[0], q[1], 'chest'); }
     if (prng() < 0.30) { const q = pickEdge(8); if (q) place(q[0], q[1], 'shrine'); }
   }
-  if (level.descentRoom) world.props.set(K(level.descentRoom.cx, level.descentRoom.cy), 'stairs');
   // Every floor's way back up, one floor at a time: a stone stair built against the entrance
   // room's back wall (north or west, the walls you see), climbing into it. Walk up its bottom
   // steps: on the first floor it leads out to the surface, deeper to the floor above (core.js).
   world.structs = [];
   if (level.entrance) placeStairsUp(world, level);
+  if (level.descentRoom) placeStairsDown(world, level);
   // coming back up from the floor below, you arrive in the corridor nearest this floor's stairs
   // down: corridors are safe, and the descent room holds the floor's boss (GDD §3.1)
   if (level.descentRoom) {
@@ -177,6 +177,34 @@ function dense(world) {
 }
 const cellAt = (world, x, y) => { const g = dense(world), i = x - g.x0, j = y - g.y0; return i >= 0 && j >= 0 && i < g.w && j < g.h ? g.cells[j * g.w + i] : undefined; };
 function NONWALK_OK(world, x, y) { return !NONWALK.has(materialAt(world, x, y)); }
+
+// Every floor's way down: a stairwell 6 tiles by 6 in the descent room (the 'stairsdown_0'
+// structure), going down toward −y from its open +y edge, with a brazier either side of the top.
+// Its tiles are props, so nothing walks over the hole: 'stairs' is the top step (the one to use;
+// world.stairsAt) and the rest 'stairwell' (tapping any of them uses the stairs too, core.js). It
+// sits as near the room's middle as fits (an L-shaped room's middle can be its notch), with the
+// row in front cleared of decor so you can walk up to it. No room for it: the single 'stairs' tile.
+const WELL = 6;
+function placeStairsDown(world, level) {
+  const r = level.descentRoom, fits = (x, y) => { const c = level.cells.get(K(x, y)); return c && c.kind === 'floor' && c.room === r.id; };
+  const clear = (ax, ay) => {
+    for (let y = ay; y <= ay + WELL; y++) for (let x = ax - 1; x <= ax + WELL; x++) if (!fits(x, y)) return false;
+    for (let x = ax; x < ax + WELL; x++) if (NONWALK.has(materialAt(world, x, ay + WELL))) return false;   // a pool across the way in
+    return true;
+  };
+  let at = null;
+  for (let d = 0; d <= 8 && !at; d++) for (let dy = -d; dy <= d && !at; dy++) for (let dx = -d; dx <= d && !at; dx++)
+    if (Math.max(Math.abs(dx), Math.abs(dy)) === d && clear(r.cx - WELL / 2 + dx, r.cy - WELL / 2 + dy)) at = [r.cx - WELL / 2 + dx, r.cy - WELL / 2 + dy];
+  if (!at) { world.props.set(K(r.cx, r.cy), 'stairs'); world.stairsAt = { x: r.cx, y: r.cy }; return; }
+  const [x0, y0] = at, x1 = x0 + WELL, y1 = y0 + WELL;
+  for (let y = y0; y < y1; y++) for (let x = x0; x < x1; x++) world.props.set(K(x, y), 'stairwell');
+  for (let x = x0; x < x1; x++) world.props.delete(K(x, y1));
+  world.props.set(K(x0 - 1, y1 - 1), 'brazier'); world.props.set(K(x1, y1 - 1), 'brazier');
+  world.stairsAt = { x: x0 + WELL / 2, y: y1 - 1 };
+  world.props.set(K(world.stairsAt.x, world.stairsAt.y), 'stairs');
+  world.stairwell = { x0, y0, x1, y1 };                                  // the opening, in tiles
+  world.structs.push({ id: 'stairsdown_0', x: x0 + WELL / 2, y: y0 + WELL / 2, hole: true });
+}
 
 // Find a stretch of the entrance room's north (−y) or west (−x) wall with room for the
 // stair (3 wide × 7 deep of plain room floor in front of a standing wall), nearest the

diff --git a/src/sim/travel.js b/src/sim/travel.js
@@ -109,8 +109,15 @@ export function listDestinations({ world, state, standable, heroLevel, sitesEnte
 
     const dr = L.descentRoom, dlv = dr && lv.get(dr.id);
     if (dr && world.discovered.has(dr.id)) {
-      const sx = dr.cx, sy = dr.cy, steps = pathLenD(sx, sy, 1);
-      if (steps !== null) out.push({ id: 'stairs-down', icon: 'down', label: 'Stairs down', sub: `to depth ${(world.depth || 0) + 2} · ${steps} steps`, level: dlv, tx: sx, ty: sy, near: 1, then: { type: 'harvest', tx: sx, ty: sy }, steps, journey: 'delve' });
+      // the nearest tile beside the stairwell (any side: it's used from anywhere on its rim), then use it
+      const at = world.stairsAt || { x: dr.cx, y: dr.cy }, S = world.stairwell, rim = [];
+      if (S) for (let y = S.y0 - 1; y <= S.y1; y++) for (let x = S.x0 - 1; x <= S.x1; x++) {
+        if (x >= S.x0 && x < S.x1 && y >= S.y0 && y < S.y1) continue;
+        rim.push({ tx: x, ty: y, near: 0, use: [Math.max(S.x0, Math.min(S.x1 - 1, x)), Math.max(S.y0, Math.min(S.y1 - 1, y))] });
+      }
+      const best = S ? nearestD(rim) : null, steps = S ? best && best.steps : pathLenD(at.x, at.y, 1);
+      const [ux, uy] = best ? best.use : [at.x, at.y];
+      if (steps !== null && steps !== undefined) out.push({ id: 'stairs-down', icon: 'down', label: 'Stairs down', sub: `to depth ${(world.depth || 0) + 2} · ${steps} steps`, level: dlv, tx: best ? best.tx : at.x, ty: best ? best.ty : at.y, near: best ? 0 : 1, then: { type: 'harvest', tx: ux, ty: uy }, steps, journey: 'delve' });
     } else if (dr) out.push({ id: 'stairs-down', icon: 'down', label: 'Stairs down', sub: 'not found yet', level: dlv, off: true });
 
     if (world.exitAt) {

diff --git a/src/sim/core.js b/src/sim/core.js
@@ -306,6 +306,7 @@ export function createSim(seed, theme, { scene = 'dungeon', region = 'vale' } = 
       const dx = cmd.tx + 0.5 - p.x, dy = cmd.ty + 0.5 - p.y, inReach = Math.max(Math.abs(dx), Math.abs(dy)) <= REACH;
       const thing = propAt(world, cmd.tx, cmd.ty) || resourceAt(world, cmd.tx, cmd.ty);
       p.journey = null;                                    // a tap on the way is a new plan
+      if (thing === 'stairwell' && !inReach && world.stairsAt) { applyCommand({ ...cmd, tx: world.stairsAt.x, ty: world.stairsAt.y }); return; }   // the middle of the hole: walk to its top step
       if (thing && inReach) { stopWalk(); applyCommand({ type: 'harvest', tx: cmd.tx, ty: cmd.ty }); return; }
       walkTo(cmd.tx, cmd.ty, thing ? { type: 'harvest', tx: cmd.tx, ty: cmd.ty } : null);
       return;
@@ -319,7 +320,7 @@ export function createSim(seed, theme, { scene = 'dungeon', region = 'vale' } = 
         face(p, dx, dy);
         if (prop === 'stairs' && world.kind === 'overland') { travel('dungeon'); return; }          // into the Old Barrows
         if (prop === 'exit') { travel('overland', 'barrows'); return; }                               // back up to the surface
-        if (prop === 'stairs') { bus.emit('descend', { depth: state.depth + 1 }); descend(); return; }
+        if (prop === 'stairs' || prop === 'stairwell') { bus.emit('descend', { depth: state.depth + 1 }); descend(); return; }   // any tile of the stairwell
         if (CONSUMABLE_PROP.has(prop)) {
           world.mods.set(cmd.tx + ',' + cmd.ty, { opened: true });
           if (prop === 'chest') { state.counters.wood += 4 + state.depth; state.counters.stone += 3 + state.depth; }

diff --git a/docs/emberfall-gdd.md b/docs/emberfall-gdd.md
@@ -91,7 +91,11 @@ fights there. The **entrance room** is a safe sanctuary. On **every floor**, a s
 against its back wall leads back up, one floor at a time: on a site's first floor it leads out
 to the surface; deeper, it climbs to the floor above, arriving in the corridor just outside that
 floor's descent room (never inside it). The **descent room** holds the floor's boss and the
-stairs down, which go one floor deeper, arriving at the foot of that floor's stair up. No stair
+stairs down, which go one floor deeper, arriving at the foot of that floor's stair up. The stairs
+down are a stone stairwell 6 tiles by 6 cut into the descent room's floor, a brazier either side
+of its top step, the flight going down to an arch lit violet (2026-09-30; before, a small marker
+on one tile: `docs/stairs-down-before-after.png`). Nothing walks over it; any tile of it takes
+you down from its rim. No stair
 skips a floor. A site remembers every floor you've been on for the visit (chests opened, growths
 cut, the map uncovered), so going up and down can't refill them; leaving the site ends the visit.
 

diff --git a/tools/actor-lab/README.md b/tools/actor-lab/README.md
@@ -31,6 +31,15 @@ node bake-env.cjs            # environment atlases (env.json + town.json: all ou
 alpha, and a per-pixel depth key (ground x+y + 0.816 × height) with the lit-window flag.
 Everything is shelf-packed into one atlas set.
 
+Per-sprite knobs in `env.json` beyond the grade:
+- `glowId` — the GLOW_ID its glowing meshes light up in the game (default 9, lit windows; the
+  stairwell's arch uses 2, violet).
+- `below` — keep geometry down to this depth under the ground (model units); the bake clips at the
+  ground otherwise. For a hole (`stairsdown`): its model also carries a depth-only floor around
+  the opening (meshes with `userData.mask`), so the bake sees into it only through its mouth,
+  and the renderer draws it over the floor (`hole` structures, `renderer.js`).
+- `shadow: false` — no planar ground shadow.
+
 ## Game atlases (`bake.cjs` + `bake.json`)
 
 `bake.json` lists what ships: the hero (`F1`, Knight · sword & board) and the four
